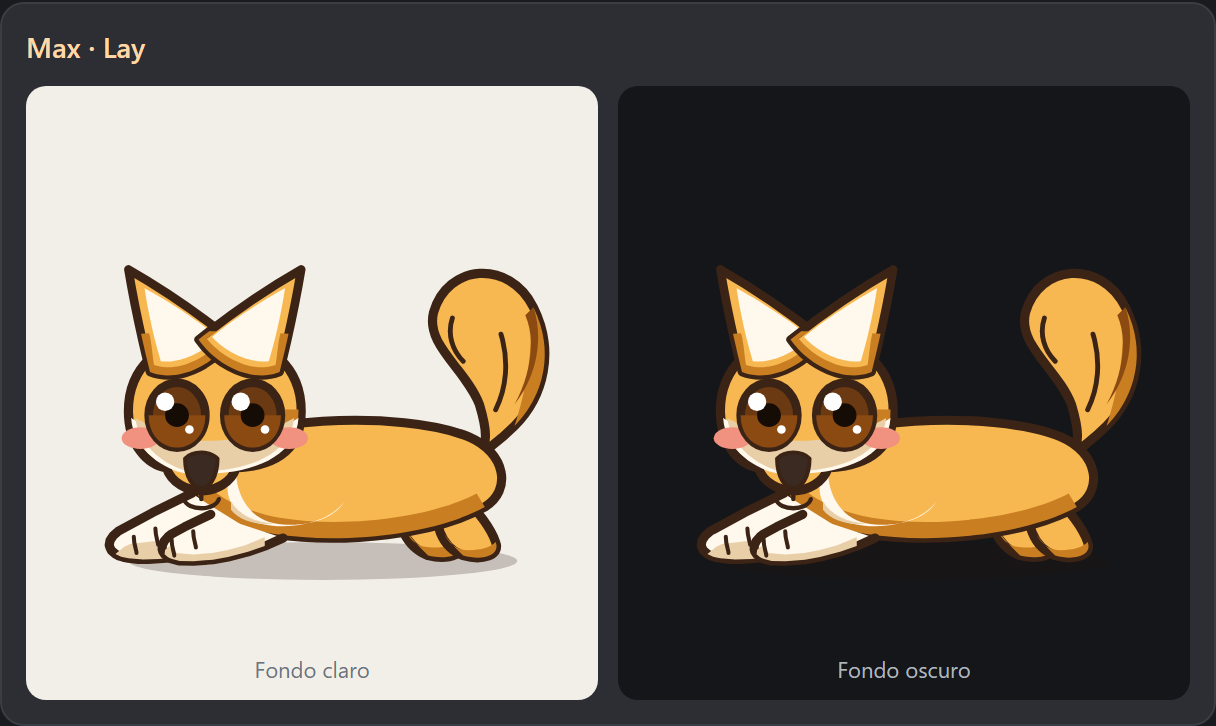
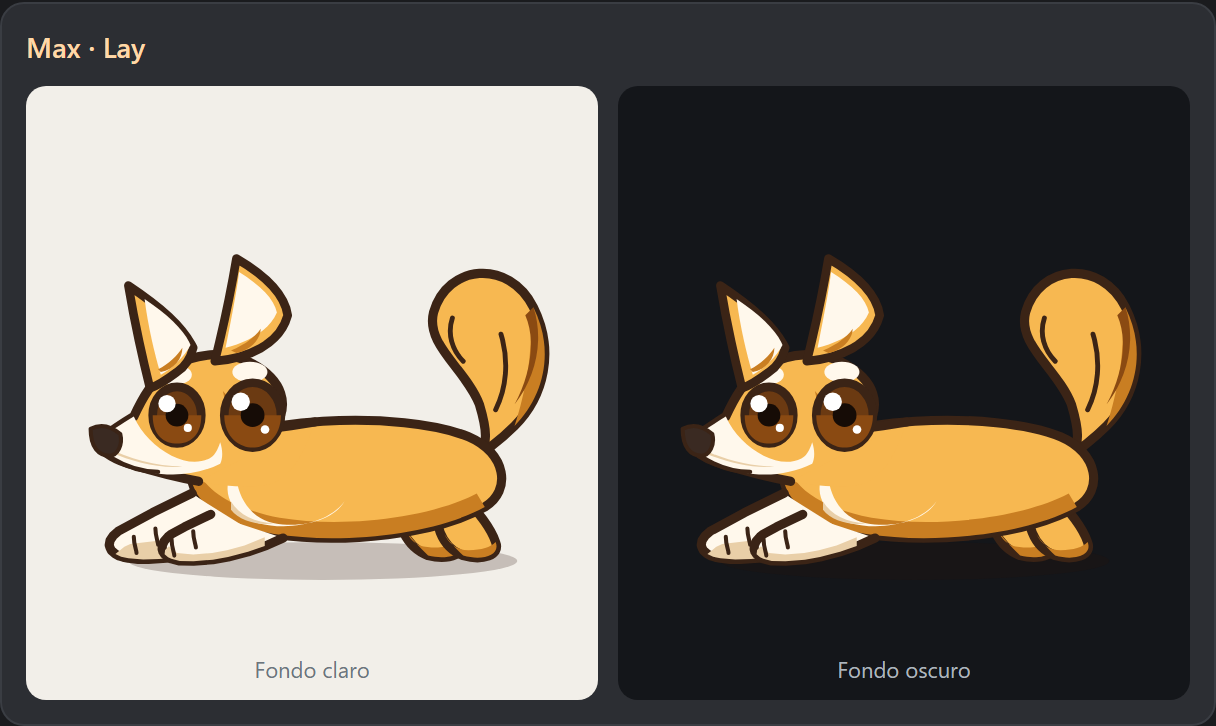
fix(redisenar-el-aspecto-visual-de): hallazgos de qa ronda 2

Changed region(s): [[0.0625, 0.3333, 0.25, 0.7273], [0.5625, 0.3333, 0.75, 0.697]]

diff --git a/src/assets/dog.js b/src/assets/dog.js
@@ -184,8 +184,8 @@ const dogWalkSVG = `<svg id="pet-svg" viewBox="0 0 200 200" xmlns="http://www.w3
 
   <g class="pet-head" style="transform-origin: 60px 94px; transform: translateY(0px) rotate(0deg);">
     <path class="cel-base" d="M 18,74 C 32,70 42,38 42,44 C 50,28 51.4,37 64,37 C 84.2,37 92,47.5 92,58 C 92,72 90,90 86,96 C 80,102 68,101 56,99 C 48,94 42,88 36,84 C 28,82 22,79 18,74 Z" fill="#F7B851" />
-    <path class="cel-outline" d="M 88,85 C 92,47.5 84.2,37 64,37 C 51.4,37 50,28 42,44 C 42,38 32,70 18,74 C 22,79 28,82 36,84 C 42,88 48,94 53,98 C 55,99 56,99 57,99" fill="#F7B851" stroke="#3B2416" stroke-width="3.4" stroke-linejoin="round" stroke-linecap="round" />
-    <path class="cel-shadow" d="M 68.1,86.6 L 68.4,86.6 L 68.7,86.6 L 69,86.6 L 69.3,86.6 L 69.6,86.6 L 69.9,86.6 L 70.2,86.6 L 70.5,86.6 L 70.8,86.6 L 71.1,86.6 L 71.4,86.6 L 71.7,86.6 L 72,86.6 L 72.3,86.6 L 72.6,86.6 L 72.9,86.6 L 73.2,86.6 L 73.5,86.6 L 73.8,86.6 L 74.1,86.6 L 74.4,86.6 L 74.7,86.6 L 75,86.6 L 75.2,86.6 L 75.5,86.6 L 75.8,86.5 L 76.1,86.5 L 76.4,86.5 L 76.6,86.5 L 76.9,86.5 L 77.2,86.5 L 77.5,86.4 L 77.7,86.4 L 78,86.4 L 78.3,86.4 L 78.5,86.4 L 78.8,86.3 L 79.1,86.3 L 79.3,86.3 L 79.6,86.2 L 79.8,86.2 L 80.1,86.2 L 80.3,86.2 L 80.6,86.1 L 80.8,86.1 L 81.1,86.1 L 81.3,86 L 81.5,86 L 81.8,85.9 L 82,85.9 L 82.2,85.9 L 82.5,85.8 L 82.7,85.8 L 82.9,85.7 L 83.1,85.7 L 83.4,85.6 L 83.6,85.6 L 83.8,85.5 L 84,85.5 L 84.2,85.4 L 84.4,85.4 L 84.6,85.3 L 84.8,85.3 L 85,85.2 L 85.2,85.2 L 85.4,85.1 L 85.5,85.1 L 85.7,85 L 85.9,84.9 L 86.1,84.9 L 86.3,84.8 L 86.4,84.7 L 86.6,84.7 L 86.7,84.6 L 86.9,84.5 L 87.1,84.5 L 87.2,84.4 L 81.6,80.2 L 81.5,80.2 L 81.3,80.3 L 81.2,80.3 L 81.1,80.4 L 80.9,80.4 L 80.8,80.5 L 80.6,80.5 L 80.5,80.5 L 80.3,80.6 L 80.1,80.6 L 80,80.6 L 79.8,80.7 L 79.7,80.7 L 79.5,80.7 L 79.3,80.8 L 79.1,80.8 L 79,80.8 L 78.8,80.8 L 78.6,80.8 L 78.4,80.9 L 78.2,80.9 L 78,80.9 L 77.8,80.9 L 77.6,80.9 L 77.4,81 L 77.2,81 L 77,81 L 76.8,81 L 76.6,81 L 76.4,81 L 76.2,81 L 76,81 L 75.8,81 L 75.6,81 L 75.4,81 L 75.1,81 L 74.9,81 L 74.7,81 L 74.5,81 L 74.3,81 L 74,81 L 73.8,81 L 73.6,81 L 73.4,81 L 73.1,80.9 L 72.9,80.9 L 72.7,80.9 L 72.4,80.9 L 72.2,80.9 L 72,80.9 L 71.8,80.8 L 71.5,80.8 L 71.3,80.8 L 71.1,80.8 L 70.8,80.8 L 70.6,80.7 L 70.3,80.7 L 70.1,80.7 L 69.9,80.6 L 69.6,80.6 L 69.4,80.6 L 69.2,80.6 L 68.9,80.5 L 68.7,80.5 L 68.5,80.5 L 68.2,80.4 L 68,80.4 L 67.8,80.4 L 67.5,80.3 L 67.3,80.3 L 67.1,80.3 L 66.8,80.2 L 66.6,80.2 L 66.4,80.1 L 66.1,80.1 L 65.9,80.1 L 65.7,80 Z" fill="#C97E22" />
+    <path class="cel-outline" d="M 107,86.4 C 101,85.6 96,85.1 91,84.6 C 93,50 85,37 64,37 C 51.4,37 50,28 42,44 C 42,38 32,70 18,74 C 22,79 28,82 36,84 C 42,88 48,94 53,98 C 55,99 56,99 57,99" fill="#F7B851" stroke="#3B2416" stroke-width="3.4" stroke-linejoin="round" stroke-linecap="round" />
+    <path class="cel-shadow" d="M 36,79 C 40,81 44,85 48,89 C 51,91.5 54,93 57,94 C 57,95 56,96 55,96 C 51,93.5 46,90 42,86 C 39,83 37,81 36,79 Z" fill="#C97E22" />
     <path class="cel-base" d="M 46,84 C 58,92 72,95 86,88 C 82,96 68,100 56,96 C 48,93 44,88 46,84 Z" fill="#F7B851" />
     <path class="cel-shadow" d="M 52,87 C 60,92 72,95 82,90 C 78,95 68,98 57,94 C 53,92 50,89 52,87 Z" fill="#C97E22" />
     <path d="M 58,80 C 65,88 73,92 81,93" fill="none" stroke="#3B2416" stroke-width="1.8" stroke-linecap="round" />
@@ -285,7 +285,7 @@ const dogSleepSVG = `<svg id="pet-svg" viewBox="0 0 200 200" xmlns="http://www.w
   <g class="pet-head" style="transform-origin: 70px 126px; transform: translateY(0px) rotate(-16deg);">
     <path class="cel-base" d="M 24,118 C 38,114 44,82 44,88 C 52,72 53.9,80 66,80 C 85.4,80 93,90 94,100 C 95,106 96,112 95,116 C 88,126 74,133 60,131 C 46,129 34,124 24,118 Z" fill="#F7B851" />
     <path class="cel-outline" d="M 95,116 C 96,112 95,106 94,100 C 93,90 85.4,80 66,80 C 53.9,80 52,72 44,88 C 44,82 38,114 24,118 C 34,124 46,129 60,131" fill="#F7B851" stroke="#3B2416" stroke-width="3.4" stroke-linejoin="round" stroke-linecap="round" />
-    <path class="cel-shadow" d="M 82.7,111.6 L 76.5,109.3 L 67.5,112.5 L 63.5,114.6" fill="#C97E22" />
+    <path class="cel-shadow" d="M 91.5,115 C 82,119 72,123 62.5,127.2 L 61.4,124.5 C 70,120.5 80,116.5 90.1,112.2 Z" fill="#C97E22" />
     <path d="M 30,117 C 38,117 42,119 48,120 C 56,127 38,124 26,122 Z" fill="#FFF8EC" />
     <path class="cel-shadow" d="M 49,122.9 L 48.9,123 L 48.9,123 L 48.9,123.1 L 48.8,123.1 L 48.8,123.2 L 48.8,123.2 L 48.7,123.3 L 48.6,123.3 L 48.6,123.4 L 48.5,123.4 L 48.5,123.5 L 48.4,123.5 L 48.3,123.5 L 48.2,123.6 L 48.2,123.6 L 48.1,123.6 L 48,123.7 L 47.9,123.7 L 47.8,123.7 L 47.7,123.8 L 47.6,123.8 L 47.5,123.8 L 47.4,123.8 L 47.3,123.8 L 47.1,123.9 L 47,123.9 L 46.9,123.9 L 46.8,123.9 L 46.6,123.9 L 46.5,123.9 L 46.4,123.9 L 46.2,124 L 46.1,124 L 45.9,124 L 45.8,124 L 45.6,124 L 45.5,124 L 45.3,124 L 45.2,124 L 45,124 L 44.8,124 L 44.7,124 L 44.5,124 L 44.3,124 L 44.2,123.9 L 44,123.9 L 43.8,123.9 L 43.6,123.9 L 43.4,123.9 L 43.3,123.9 L 43.1,123.9 L 42.9,123.8 L 42.7,123.8 L 42.5,123.8 L 42.3,123.8 L 42.1,123.7 L 41.9,123.7 L 41.7,123.7 L 41.5,123.6 L 41.3,123.6 L 41.1,123.6 L 40.9,123.5 L 40.7,123.5 L 40.5,123.5 L 40.3,123.4 L 40.1,123.4 L 40,123.3 L 39.8,123.3 L 39.6,123.2 L 39.4,123.2 L 39.2,123.1 L 39,123.1 L 38.9,123 L 38.7,123 L 38.5,122.9 L 38.4,122.9 L 38.2,122.9 L 38.1,122.8 L 37.9,122.8 L 37.8,122.8 L 37.6,122.8 L 37.7,122.3 L 37.8,122.4 L 38,122.4 L 38.1,122.4 L 38.2,122.4 L 38.3,122.4 L 38.4,122.4 L 38.5,122.4 L 38.7,122.5 L 38.8,122.5 L 38.9,122.5 L 39,122.5 L 39.1,122.5 L 39.2,122.5 L 39.3,122.5 L 39.5,122.5 L 39.6,122.6 L 39.7,122.6 L 39.8,122.6 L 39.9,122.6 L 40,122.6 L 40.1,122.6 L 40.2,122.6 L 40.3,122.6 L 40.4,122.6 L 40.5,122.6 L 40.6,122.6 L 40.7,122.6 L 40.8,122.6 L 40.9,122.7 L 41,122.7 L 41.1,122.7 L 41.2,122.7 L 41.3,122.7 L 41.4,122.7 L 41.5,122.7 L 41.6,122.7 L 41.7,122.7 L 41.8,122.7 L 41.9,122.7 L 42.1,122.7 L 42.3,122.8 L 42.4,122.8 L 42.6,122.8 L 42.7,122.8 L 42.9,122.9 L 43,122.9 L 43.1,122.9 L 43.3,122.9 L 43.4,122.9 L 43.6,122.9 L 43.7,122.9 L 43.8,122.9 L 43.9,122.9 L 44.1,122.9 L 44.2,122.9 L 44.3,122.9 L 44.4,122.9 L 44.5,122.9 L 44.6,122.9 L 44.7,122.9 L 44.8,122.9 L 44.9,122.9 L 45,122.9 L 45.1,122.9 L 45.2,122.9 L 45.3,122.8 L 45.3,122.8 L 45.4,122.8 L 45.5,122.8 L 45.5,122.8 L 45.6,122.7 L 45.7,122.7 L 45.7,122.7 L 45.8,122.6 L 45.8,122.6 L 45.9,122.6 L 45.9,122.5 L 45.9,122.5 L 46,122.5 L 46,122.4 L 46,122.4 Z" fill="#E9CFA8" />
     <path d="M 23,114 C 23,121 26,124 30,124 C 33,124 35,120 35,116 C 31,112.5 26,112.5 23,114 Z" fill="#3A2A22" stroke="#3B2416" stroke-width="1.5" stroke-linejoin="round" />
@@ -480,39 +480,37 @@ const dogLaySVG = `<svg id="pet-svg" viewBox="0 0 200 200" xmlns="http://www.w3.
   </g>
 
   <g class="pet-head" style="transform-origin: 78px 126px; transform: translateY(0px) rotate(0deg);">
-    <path class="cel-base" d="M 56.7,143.8 L 53.8,143 L 50.7,141.5 L 49.1,140.2 L 47.7,138.6 L 46.6,136.8 L 46.1,135.5 L 43.5,134.8 L 41.7,134 L 40.1,133 L 38.5,131.7 L 36.4,129.3 L 35.1,127.4 L 33.6,124.1 L 32.8,121.6 L 32.1,117.5 L 32.1,112.6 L 32.9,107.1 L 34,103.7 L 35.6,100.5 L 36.6,99 L 38.8,96.2 L 41.5,93.7 L 44.6,91.6 L 48.2,89.9 L 50.1,89.1 L 54.3,88 L 58.9,87.2 L 64,87 L 69.1,87.2 L 73.7,88 L 77.9,89.1 L 79.8,89.9 L 83.4,91.6 L 86.5,93.7 L 89.2,96.2 L 91.4,99 L 92.4,100.5 L 94,103.7 L 95.1,107.1 L 95.9,112.6 L 96,116 L 95.4,120.3" fill="#F7B851" />
-    <path class="cel-outline" d="M 64,87 C 85.1,87 96,99 96,114.5 C 96,127 89,134.5 71.9,135.5 C 70.1,141.1 64.1,144 59,144 C 53.9,144 47.9,141.1 46.1,135.5 C 39,134.5 32,127 32,114.5 C 32,99 42.9,87 64,87 Z" fill="#F7B851" stroke="#3B2416" stroke-width="3.4" stroke-linejoin="round" stroke-linecap="round" />
-    <path class="cel-shadow" d="M 85.6,121.2 L 86.7,118.2 L 87,116 L 87,113.9 L 95,113.9 L 94.9,117.3 L 94.5,120" fill="#C97E22" />
-    <path d="M 33,117 C 33.9,129.5 46.1,136.3 53,137.5 C 54.2,140.6 56.5,143.3 59,143.5 C 61.6,143.3 63.8,140.6 65,137.5 C 81.9,136.3 94.1,129.5 95,117 C 82.6,124.5 73.6,128 59,128 C 54.4,128 45.4,124.5 33,117 Z" fill="#FFF8EC" />
-    <path class="cel-shadow" d="M 34.6,117 C 35.8,128.5 47.4,135 53.3,136.5 C 54.5,140.4 56.6,143 59,143.2 C 61.4,143 63.5,140.4 64.7,136.5 C 80.6,135 92.2,128.5 93.4,117 C 81.6,123.5 73,125.5 59,125.5 C 55,125.5 46.4,123.5 34.6,117 Z" fill="#E9CFA8" />
-    <ellipse cx="48" cy="95" rx="7" ry="4.2" fill="#FFF8EC" />
-    <ellipse cx="80" cy="95" rx="7" ry="4.2" fill="#FFF8EC" />
-    <ellipse cx="36.5" cy="124.5" rx="7" ry="4" fill="#F0927F" />
-    <ellipse cx="91.5" cy="124.5" rx="7" ry="4" fill="#F0927F" />
-    <path d="M 53,132.1 C 53,139.1 56.2,143.1 59,143.1 C 61.8,143.1 65,139.1 65,132.1 C 62.2,129.1 55.8,129.1 53,132.1 Z" fill="#3A2A22" stroke="#3B2416" stroke-width="1.5" stroke-linejoin="round" />
-    <path d="M 59,143.1 L 59,147.1 M 52.5,147.1 C 54,151.6 64,151.6 65.5,147.1" fill="none" stroke="#3B2416" stroke-width="1.6" stroke-linecap="round" />
+    <path class="cel-base" d="M 101,118.5 C 96,119.3 91,120.1 86,120.8 C 92,112 89,103 78,97 C 70,92 58,92.5 48,98 C 41,102.5 37,110 34,116.5 C 29,119.5 24,123 20,126 C 23,130.5 28,133 34,134.5 C 42,137 50,139 58,140.5 C 66,142 74,143 82,142 C 90,141 96,134 101,118.5 Z" fill="#F7B851" />
+    <path class="cel-outline" d="M 101,118.5 C 96,119.3 91,120.1 86,120.8 C 92,112 89,103 78,97 C 70,92 58,92.5 48,98 C 41,102.5 37,110 34,116.5 C 29,119.5 24,123 20,126 C 23,130.5 28,133 34,134.5 C 42,137 50,139 58,140.5" fill="#F7B851" stroke="#3B2416" stroke-width="3.4" stroke-linejoin="round" stroke-linecap="round" />
+    <path class="cel-shadow" d="M 67,107 C 72,113 78,115 82,110 C 83,115 82,120 79,123 C 74,122 69,117 67,107 Z" fill="#C97E22" />
+    <path d="M 20,126 C 25,122 30,119 34,116.5 C 37,123 42,128 48,131 C 53,133.5 58,134 62,132 C 64,131 65,129 66,126 C 67,129 67,132 66,134 C 58,138 48,139 40,137 C 31,135 24,131 21,128 C 20.5,127 20,126 20,126 Z" fill="#FFF8EC" />
+    <path class="cel-shadow" d="M 24,128 C 32,132 42,135 52,135 C 44,136 33,133 26,130 Z" fill="#E9CFA8" />
+    <ellipse cx="49" cy="101" rx="6.5" ry="3.8" fill="#FFF8EC" />
+    <ellipse cx="77" cy="100" rx="6.5" ry="3.8" fill="#FFF8EC" />
+    <path d="M 18,121 C 18,128 21,131 25,131 C 28,131 30,127 29,123 C 25,119.5 21,119.5 18,121 Z" fill="#3A2A22" stroke="#3B2416" stroke-width="1.5" stroke-linejoin="round" />
+    <path d="M 26,132 C 31,135 37,137 43,137" fill="none" stroke="#3B2416" stroke-width="1.6" stroke-linecap="round" />
     <g class="anim-blink">
-      <ellipse class="cel-outline" cx="50" cy="116" rx="10.5" ry="12" fill="#6B3A12" stroke="#3B2416" stroke-width="3.2" />
-      <path class="cel-shadow" d="M 39.5,116 C 39.5,124.6 45.6,128 50,128 C 54.4,128 60.5,124.6 60.5,116 Z" fill="#8A4A12" />
-      <circle class="pet-pupil" data-anchor-x="50" data-anchor-y="116" cx="50" cy="116" r="4.4" fill="#160C06" />
-      <circle cx="45.6" cy="111" r="3.4" fill="#FFFFFF" />
-      <circle cx="54.6" cy="121.3" r="1.6" fill="#FFFFFF" />
+      <ellipse class="cel-outline" cx="50" cy="116" rx="9" ry="10.5" fill="#6B3A12" stroke="#3B2416" stroke-width="3.2" />
+      <path class="cel-shadow" d="M 41,116 C 41,123.8 45.4,126.5 50,126.5 C 54.6,126.5 59,123.8 59,116 Z" fill="#8A4A12" />
+      <circle class="pet-pupil" data-anchor-x="50" data-anchor-y="116" cx="50" cy="116" r="4.2" fill="#160C06" />
+      <circle cx="46.3" cy="111.7" r="3.2" fill="#FFFFFF" />
+      <circle cx="54" cy="120.7" r="1.5" fill="#FFFFFF" />
       <ellipse class="cel-outline" cx="78" cy="116" rx="10.5" ry="12" fill="#6B3A12" stroke="#3B2416" stroke-width="3.2" />
       <path class="cel-shadow" d="M 67.5,116 C 67.5,124.6 73.6,128 78,128 C 82.4,128 88.5,124.6 88.5,116 Z" fill="#8A4A12" />
       <circle class="pet-pupil" data-anchor-x="78" data-anchor-y="116" cx="78" cy="116" r="4.4" fill="#160C06" />
       <circle cx="73.6" cy="111" r="3.4" fill="#FFFFFF" />
       <circle cx="82.6" cy="121.3" r="1.6" fill="#FFFFFF" />
     </g>
-        <g class="pet-ear pet-ear-left" style="transform-origin: 42px 92px">
-      <path class="cel-outline" d="M 40,100 C 37,88 34,74 32,62 C 46,70 60,80 70,88 C 63,98 50,104 40,100 Z" fill="#F7B851" stroke="#3B2416" stroke-width="3.2" stroke-linejoin="round" stroke-linecap="round" />
-      <path d="M 44,96 C 41,86 39,76 38,69 C 49,75 59,82 65,87 C 60,93 50,97 44,96 Z" fill="#FFF8EC" />
-      <path class="cel-shadow" d="M 66.07,84.91 L 67.42,85.96 L 68.73,86.99 L 70,88 L 69.09,89.23 L 68.13,90.41 L 67.11,91.55 L 66.04,92.64 L 64.93,93.67 L 63.77,94.66 L 62.57,95.58 L 61.33,96.44 L 60.07,97.25 L 58.78,97.98 L 57.46,98.65 L 56.13,99.25 L 54.77,99.78 L 53.41,100.23 L 52.04,100.6 L 50.67,100.89 L 49.29,101.1 L 47.92,101.22 L 46.56,101.25 L 45.21,101.19 L 43.87,101.04 L 42.56,100.8 L 41.26,100.45 L 40,100 L 40,100 L 39.63,98.49 L 39.25,96.96 L 38.88,95.41 L 38.5,93.85 L 38.13,92.28 L 37.77,90.69 L 37.4,89.09 L 37.04,87.48 L 36.68,85.87 L 39.67,85.64 L 39.97,86.84 L 40.21,88.05 L 40.41,89.28 L 40.59,90.55 L 40.75,91.86 L 40.91,93.21 L 41.09,94.59 L 41.27,95.98 L 41.48,97.39 L 41.48,97.39 L 42.54,97.73 L 43.62,97.99 L 44.71,98.16 L 45.81,98.26 L 46.92,98.27 L 48.03,98.22 L 49.15,98.1 L 50.27,97.92 L 51.38,97.67 L 52.5,97.37 L 53.61,97.01 L 54.72,96.6 L 55.82,96.14 L 56.92,95.63 L 58.01,95.06 L 59.1,94.44 L 60.17,93.77 L 61.23,93.05 L 62.28,92.27 L 63.29,91.43 L 64.28,90.55 L 65.24,89.61 L 66.16,88.62 L 67.03,87.58 L 65.74,86.69 L 64.42,85.8 L 63.07,84.92 Z" fill="#C97E22" />
-    </g>
-        <g class="pet-ear pet-ear-right" style="transform-origin: 86px 92px">
-      <path class="cel-outline" d="M 88,100 C 91,88 94,74 96,62 C 82,70 68,80 58,88 C 65,98 78,104 88,100 Z" fill="#F7B851" stroke="#3B2416" stroke-width="3.2" stroke-linejoin="round" stroke-linecap="round" />
-      <path d="M 84,96 C 87,86 89,76 90,69 C 79,75 69,82 63,87 C 68,93 78,97 84,96 Z" fill="#FFF8EC" />
-      <path class="cel-shadow" d="M 61.93,84.91 L 60.58,85.96 L 59.27,86.99 L 58,88 L 58.91,89.23 L 59.87,90.41 L 60.89,91.55 L 61.96,92.64 L 63.07,93.67 L 64.23,94.66 L 65.43,95.58 L 66.67,96.44 L 67.93,97.25 L 69.22,97.98 L 70.54,98.65 L 71.88,99.25 L 73.23,99.78 L 74.59,100.23 L 75.96,100.6 L 77.33,100.89 L 78.71,101.1 L 80.08,101.22 L 81.44,101.25 L 82.79,101.19 L 84.13,101.04 L 85.44,100.8 L 86.74,100.45 L 88,100 L 88,100 L 88.37,98.49 L 88.75,96.96 L 89.12,95.41 L 89.5,93.85 L 89.87,92.28 L 90.23,90.69 L 90.6,89.09 L 90.96,87.48 L 91.32,85.87 L 88.33,85.64 L 88.03,86.84 L 87.79,88.05 L 87.59,89.28 L 87.41,90.55 L 87.25,91.86 L 87.09,93.21 L 86.91,94.59 L 86.73,95.98 L 86.52,97.39 L 86.52,97.39 L 85.46,97.73 L 84.38,97.99 L 83.29,98.16 L 82.19,98.26 L 81.08,98.27 L 79.97,98.22 L 78.85,98.1 L 77.73,97.92 L 76.62,97.67 L 75.5,97.37 L 74.39,97.01 L 73.28,96.6 L 72.18,96.14 L 71.08,95.63 L 69.99,95.06 L 68.9,94.44 L 67.83,93.77 L 66.77,93.05 L 65.72,92.27 L 64.71,91.43 L 63.72,90.55 L 62.76,89.61 L 61.84,88.62 L 60.97,87.58 L 62.26,86.69 L 63.58,85.8 L 64.93,84.92 Z" fill="#C97E22" />
-    </g>
+    <g class="pet-ear pet-ear-left" style="transform-origin: 44px 96px">
+      <path class="cel-outline" d="M 40,106 C 37,94 34,80 32,68 C 44,76 52,83 56,91 C 55,95 53,98 50,100 C 46,103 43,105 40,106 Z" fill="#F7B851" stroke="#3B2416" stroke-width="3.2" stroke-linejoin="round" stroke-linecap="round" />
+      <path d="M 44,101 C 41,91 39,81 38,73 C 47,79 53,85 55,90 C 53,94 48,99 44,101 Z" fill="#FFF8EC" />
+      <path class="cel-shadow" d="M 43,99 C 47,97 50,94 52,91 C 52,95 49,99 44,100 Z" fill="#C97E22" />
+    </g>
+    <g class="pet-ear pet-ear-right" style="transform-origin: 80px 96px">
+      <path class="cel-outline" d="M 64,96 C 67,84 70,70 72,58 C 84,65 90,72 91,79 C 88,90 76,95 64,96 Z" fill="#F7B851" stroke="#3B2416" stroke-width="3.2" stroke-linejoin="round" stroke-linecap="round" />
+      <path d="M 68,91 C 70,81 72,71 73,63 C 81,68 86,73 87,78 C 84,85 76,89 68,91 Z" fill="#FFF8EC" />
+      <path class="cel-shadow" d="M 70,92 C 75,90 79,87 81,84 C 81,88 77,92 72,93 Z" fill="#C97E22" />
+    </g>
   </g>
 </svg>
 `;
@@ -590,39 +588,37 @@ const dogStretchSVG = `<svg id="pet-svg" viewBox="0 0 200 200" xmlns="http://www
   </g>
 
   <g class="pet-head" style="transform-origin: 56px 140px; transform: translateY(0px) rotate(0deg);">
-    <path class="cel-base" d="M 57.5,147.8 L 56.2,148.8 L 54.5,149.8 L 52.7,150.5 L 50.8,150.9 L 49,151 L 47.2,150.9 L 44.1,150 L 41.8,148.8 L 39.8,147.2 L 38.1,145 L 37,142.4 L 35.4,142 L 33.9,141.3 L 31.6,139.8 L 29.5,137.7 L 27.6,135 L 26,131.8 L 24.8,128 L 24.1,123.7 L 24.1,118.6 L 24.9,112.9 L 26,109.3 L 27.5,106 L 29.4,103 L 31.8,100.3 L 33.2,99 L 36.2,96.8 L 39.6,95 L 43.5,93.5 L 47.8,92.6 L 52.5,92.1 L 57.5,92.1 L 62.2,92.6 L 66.5,93.5 L 70.4,95 L 73.8,96.8 L 76.8,99 L 79.4,101.6 L 81.6,104.5 L 83.3,107.7 L 84.6,111.1" fill="#F7B851" />
-    <path class="cel-outline" d="M 55,92 C 75.5,92 86,104.5 86,120.6 C 86,133.6 79.2,141.4 61,142.4 C 59.4,148.1 53.8,151 49,151 C 44.2,151 38.6,148.1 37,142.4 C 30.8,141.4 24,133.6 24,120.6 C 24,104.5 34.5,92 55,92 Z" fill="#F7B851" stroke="#3B2416" stroke-width="3.4" stroke-linejoin="round" stroke-linecap="round" />
-    <path class="cel-shadow" d="M 64.2,135.3 L 63.3,133.9 L 65.1,133.8" fill="#C97E22" />
-    <path d="M 24.9,123.2 C 25.9,136.2 37.6,143.2 43.4,144.5 C 44.5,147.6 46.6,150.3 49,150.5 C 51.4,150.3 53.5,147.6 54.6,144.5 C 72.4,143.2 84.1,136.2 85.1,123.2 C 73,131 64.3,134.6 49,134.6 C 45.7,134.6 37,131 24.9,123.2 Z" fill="#FFF8EC" />
-    <path class="cel-shadow" d="M 26.5,123.2 C 27.7,135.2 38.9,141.9 43.7,143.5 C 44.8,147.4 46.8,150 49,150.2 C 51.2,150 53.2,147.4 54.3,143.5 C 71.1,141.9 82.3,135.2 83.5,123.2 C 72.1,130 63.7,132 49,132 C 46.3,132 38,130 26.5,123.2 Z" fill="#E9CFA8" />
-    <ellipse cx="40" cy="103" rx="7" ry="4.2" fill="#FFF8EC" />
-    <ellipse cx="70" cy="103" rx="7" ry="4.2" fill="#FFF8EC" />
-    <ellipse cx="28.3" cy="131" rx="7" ry="4" fill="#F0927F" />
-    <ellipse cx="81.7" cy="131" rx="7" ry="4" fill="#F0927F" />
-    <path d="M 43,139.1 C 43,146.1 46.2,150.1 49,150.1 C 51.8,150.1 55,146.1 55,139.1 C 52.2,136.1 45.8,136.1 43,139.1 Z" fill="#3A2A22" stroke="#3B2416" stroke-width="1.5" stroke-linejoin="round" />
-    <path d="M 49,150.1 L 49,154.1 M 42.5,154.1 C 44,158.6 54,158.6 55.5,154.1" fill="none" stroke="#3B2416" stroke-width="1.6" stroke-linecap="round" />
+    <path class="cel-base" d="M 95,102.7 C 89,106 83,110 78,114.5 C 82,105 79,98 71,94.5 C 63,90.5 51,93 43,99 C 36,104 31,112 28,118 C 23,121 17,125 13,129 C 16,133 22,136 28,137 C 34,138 40,139 46,140 C 54,141 62,141 70,140 C 80,138 88,124 95,102.7 Z" fill="#F7B851" />
+    <path class="cel-outline" d="M 95,102.7 C 89,106 83,110 78,114.5 C 82,105 79,98 71,94.5 C 63,90.5 51,93 43,99 C 36,104 31,112 28,118 C 23,121 17,125 13,129 C 16,133 22,136 28,137 C 34,138 40,139 46,140 C 52,141 58,142 63,142.5" fill="#F7B851" stroke="#3B2416" stroke-width="3.4" stroke-linejoin="round" stroke-linecap="round" />
+    <path class="cel-shadow" d="M 62,105 C 67,111 73,113 77,108 C 78,113 77,118 74,121 C 69,120 64,115 62,105 Z" fill="#C97E22" />
+    <path d="M 13,129 C 18,125 23,122 28,118 C 31,124 36,129 42,132 C 47,134.5 52,135 56,133 C 58,132 59,130 60,127 C 61,130 61,133 60,135 C 52,139 42,140 34,138 C 25,136 18,133 15,131 C 14,130 13,129 13,129 Z" fill="#FFF8EC" />
+    <path class="cel-shadow" d="M 17,131 C 25,135 35,138 45,138 C 37,139 26,136 19,133 Z" fill="#E9CFA8" />
+    <ellipse cx="43" cy="110" rx="6.5" ry="3.8" fill="#FFF8EC" />
+    <ellipse cx="70" cy="107" rx="6.5" ry="3.8" fill="#FFF8EC" />
+    <path d="M 11,124 C 11,131 14,134 18,134 C 21,134 23,130 22,126 C 18,122.5 14,122.5 11,124 Z" fill="#3A2A22" stroke="#3B2416" stroke-width="1.5" stroke-linejoin="round" />
+    <path d="M 19,135 C 24,138 30,140 36,140" fill="none" stroke="#3B2416" stroke-width="1.6" stroke-linecap="round" />
     <g class="anim-blink">
-      <ellipse class="cel-outline" cx="42" cy="124" rx="10.5" ry="12" fill="#6B3A12" stroke="#3B2416" stroke-width="3.2" />
-      <path class="cel-shadow" d="M 31.5,124 C 31.5,132.6 37.6,136 42,136 C 46.4,136 52.5,132.6 52.5,124 Z" fill="#8A4A12" />
-      <circle class="pet-pupil" data-anchor-x="42" data-anchor-y="124" cx="42" cy="124" r="4.4" fill="#160C06" />
-      <circle cx="37.6" cy="119" r="3.4" fill="#FFFFFF" />
-      <circle cx="46.6" cy="129.3" r="1.6" fill="#FFFFFF" />
+      <ellipse class="cel-outline" cx="42" cy="124" rx="9" ry="10.5" fill="#6B3A12" stroke="#3B2416" stroke-width="3.2" />
+      <path class="cel-shadow" d="M 33,124 C 33,131.8 37.4,134.5 42,134.5 C 46.6,134.5 51,131.8 51,124 Z" fill="#8A4A12" />
+      <circle class="pet-pupil" data-anchor-x="42" data-anchor-y="124" cx="42" cy="124" r="4.2" fill="#160C06" />
+      <circle cx="38.3" cy="119.7" r="3.2" fill="#FFFFFF" />
+      <circle cx="46" cy="128.7" r="1.5" fill="#FFFFFF" />
       <ellipse class="cel-outline" cx="68" cy="124" rx="10.5" ry="12" fill="#6B3A12" stroke="#3B2416" stroke-width="3.2" />
       <path class="cel-shadow" d="M 57.5,124 C 57.5,132.6 63.6,136 68,136 C 72.4,136 78.5,132.6 78.5,124 Z" fill="#8A4A12" />
       <circle class="pet-pupil" data-anchor-x="68" data-anchor-y="124" cx="68" cy="124" r="4.4" fill="#160C06" />
       <circle cx="63.6" cy="119" r="3.4" fill="#FFFFFF" />
       <circle cx="72.6" cy="129.3" r="1.6" fill="#FFFFFF" />
     </g>
-        <g class="pet-ear pet-ear-left" style="transform-origin: 33px 97px">
-      <path class="cel-outline" d="M 32,104 C 29,92 26,78 24,66 C 38,74 52,84 62,92 C 55,102 42,108 32,104 Z" fill="#F7B851" stroke="#3B2416" stroke-width="3.2" stroke-linejoin="round" stroke-linecap="round" />
-      <path d="M 36,100 C 33,90 31,80 30,73 C 41,79 51,86 57,91 C 52,97 42,101 36,100 Z" fill="#FFF8EC" />
-      <path class="cel-shadow" d="M 58.07,88.91 L 59.42,89.96 L 60.73,90.99 L 62,92 L 61.09,93.23 L 60.13,94.41 L 59.11,95.55 L 58.04,96.64 L 56.93,97.67 L 55.77,98.66 L 54.57,99.58 L 53.33,100.44 L 52.07,101.25 L 50.78,101.98 L 49.46,102.65 L 48.13,103.25 L 46.77,103.78 L 45.41,104.23 L 44.04,104.6 L 42.67,104.89 L 41.29,105.1 L 39.92,105.22 L 38.56,105.25 L 37.21,105.19 L 35.87,105.04 L 34.56,104.8 L 33.26,104.45 L 32,104 L 32,104 L 31.63,102.49 L 31.25,100.96 L 30.88,99.41 L 30.5,97.85 L 30.13,96.28 L 29.77,94.69 L 29.4,93.09 L 29.04,91.48 L 28.68,89.87 L 31.67,89.64 L 31.97,90.84 L 32.21,92.05 L 32.41,93.28 L 32.59,94.55 L 32.75,95.86 L 32.91,97.21 L 33.09,98.59 L 33.27,99.98 L 33.48,101.39 L 33.48,101.39 L 34.54,101.73 L 35.62,101.99 L 36.71,102.16 L 37.81,102.26 L 38.92,102.27 L 40.03,102.22 L 41.15,102.1 L 42.27,101.92 L 43.38,101.67 L 44.5,101.37 L 45.61,101.01 L 46.72,100.6 L 47.82,100.14 L 48.92,99.63 L 50.01,99.06 L 51.1,98.44 L 52.17,97.77 L 53.23,97.05 L 54.28,96.27 L 55.29,95.43 L 56.28,94.55 L 57.24,93.61 L 58.16,92.62 L 59.03,91.58 L 57.74,90.69 L 56.42,89.8 L 55.07,88.92 Z" fill="#C97E22" />
-    </g>
-        <g class="pet-ear pet-ear-right" style="transform-origin: 77px 97px">
-      <path class="cel-outline" d="M 78,104 C 81,92 84,78 86,66 C 72,74 58,84 48,92 C 55,102 68,108 78,104 Z" fill="#F7B851" stroke="#3B2416" stroke-width="3.2" stroke-linejoin="round" stroke-linecap="round" />
-      <path d="M 74,100 C 77,90 79,80 80,73 C 69,79 59,86 53,91 C 58,97 68,101 74,100 Z" fill="#FFF8EC" />
-      <path class="cel-shadow" d="M 51.93,88.91 L 50.58,89.96 L 49.27,90.99 L 48,92 L 48.91,93.23 L 49.87,94.41 L 50.89,95.55 L 51.96,96.64 L 53.07,97.67 L 54.23,98.66 L 55.43,99.58 L 56.67,100.44 L 57.93,101.25 L 59.22,101.98 L 60.54,102.65 L 61.88,103.25 L 63.23,103.78 L 64.59,104.23 L 65.96,104.6 L 67.33,104.89 L 68.71,105.1 L 70.08,105.22 L 71.44,105.25 L 72.79,105.19 L 74.13,105.04 L 75.44,104.8 L 76.74,104.45 L 78,104 L 78,104 L 78.37,102.49 L 78.75,100.96 L 79.12,99.41 L 79.5,97.85 L 79.87,96.28 L 80.23,94.69 L 80.6,93.09 L 80.96,91.48 L 81.32,89.87 L 78.33,89.64 L 78.03,90.84 L 77.79,92.05 L 77.59,93.28 L 77.41,94.55 L 77.25,95.86 L 77.09,97.21 L 76.91,98.59 L 76.73,99.98 L 76.52,101.39 L 76.52,101.39 L 75.46,101.73 L 74.38,101.99 L 73.29,102.16 L 72.19,102.26 L 71.08,102.27 L 69.97,102.22 L 68.85,102.1 L 67.73,101.92 L 66.62,101.67 L 65.5,101.37 L 64.39,101.01 L 63.28,100.6 L 62.18,100.14 L 61.08,99.63 L 59.99,99.06 L 58.9,98.44 L 57.83,97.77 L 56.77,97.05 L 55.72,96.27 L 54.71,95.43 L 53.72,94.55 L 52.76,93.61 L 51.84,92.62 L 50.97,91.58 L 52.26,90.69 L 53.58,89.8 L 54.93,88.92 Z" fill="#C97E22" />
-    </g>
+    <g class="pet-ear pet-ear-left" style="transform-origin: 42px 92px">
+      <path class="cel-outline" d="M 38,105 C 35,93 32,79 30,67 C 42,75 50,82 54,90 C 53,94 51,97 48,99 C 44,102 41,104 38,105 Z" fill="#F7B851" stroke="#3B2416" stroke-width="3.2" stroke-linejoin="round" stroke-linecap="round" />
+      <path d="M 42,100 C 39,90 37,80 36,72 C 45,78 51,84 53,89 C 51,93 46,98 42,100 Z" fill="#FFF8EC" />
+      <path class="cel-shadow" d="M 41,98 C 45,96 48,93 50,90 C 50,94 47,98 42,99 Z" fill="#C97E22" />
+    </g>
+    <g class="pet-ear pet-ear-right" style="transform-origin: 76px 92px">
+      <path class="cel-outline" d="M 60,95 C 63,83 66,69 68,57 C 80,64 86,71 87,78 C 84,89 72,94 60,95 Z" fill="#F7B851" stroke="#3B2416" stroke-width="3.2" stroke-linejoin="round" stroke-linecap="round" />
+      <path d="M 64,90 C 66,80 68,70 69,62 C 77,67 82,72 83,77 C 80,84 72,88 64,90 Z" fill="#FFF8EC" />
+      <path class="cel-shadow" d="M 66,91 C 71,89 75,86 77,83 C 77,87 73,91 68,92 Z" fill="#C97E22" />
+    </g>
   </g>
 </svg>
 `;
